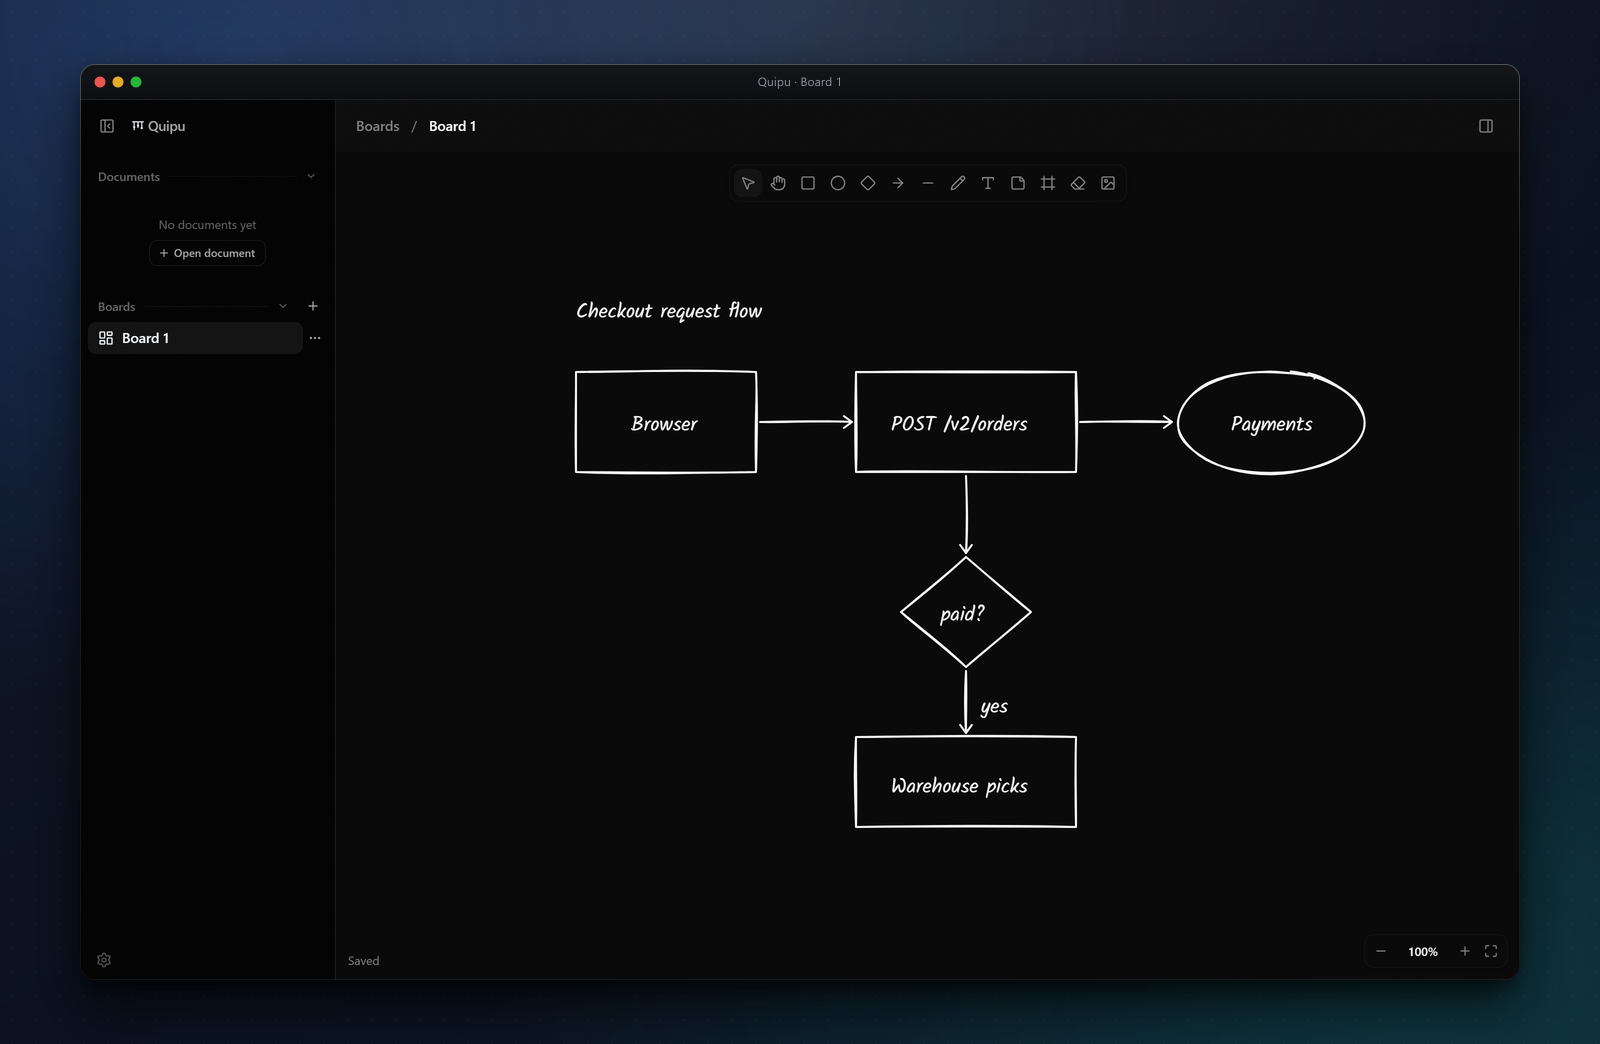
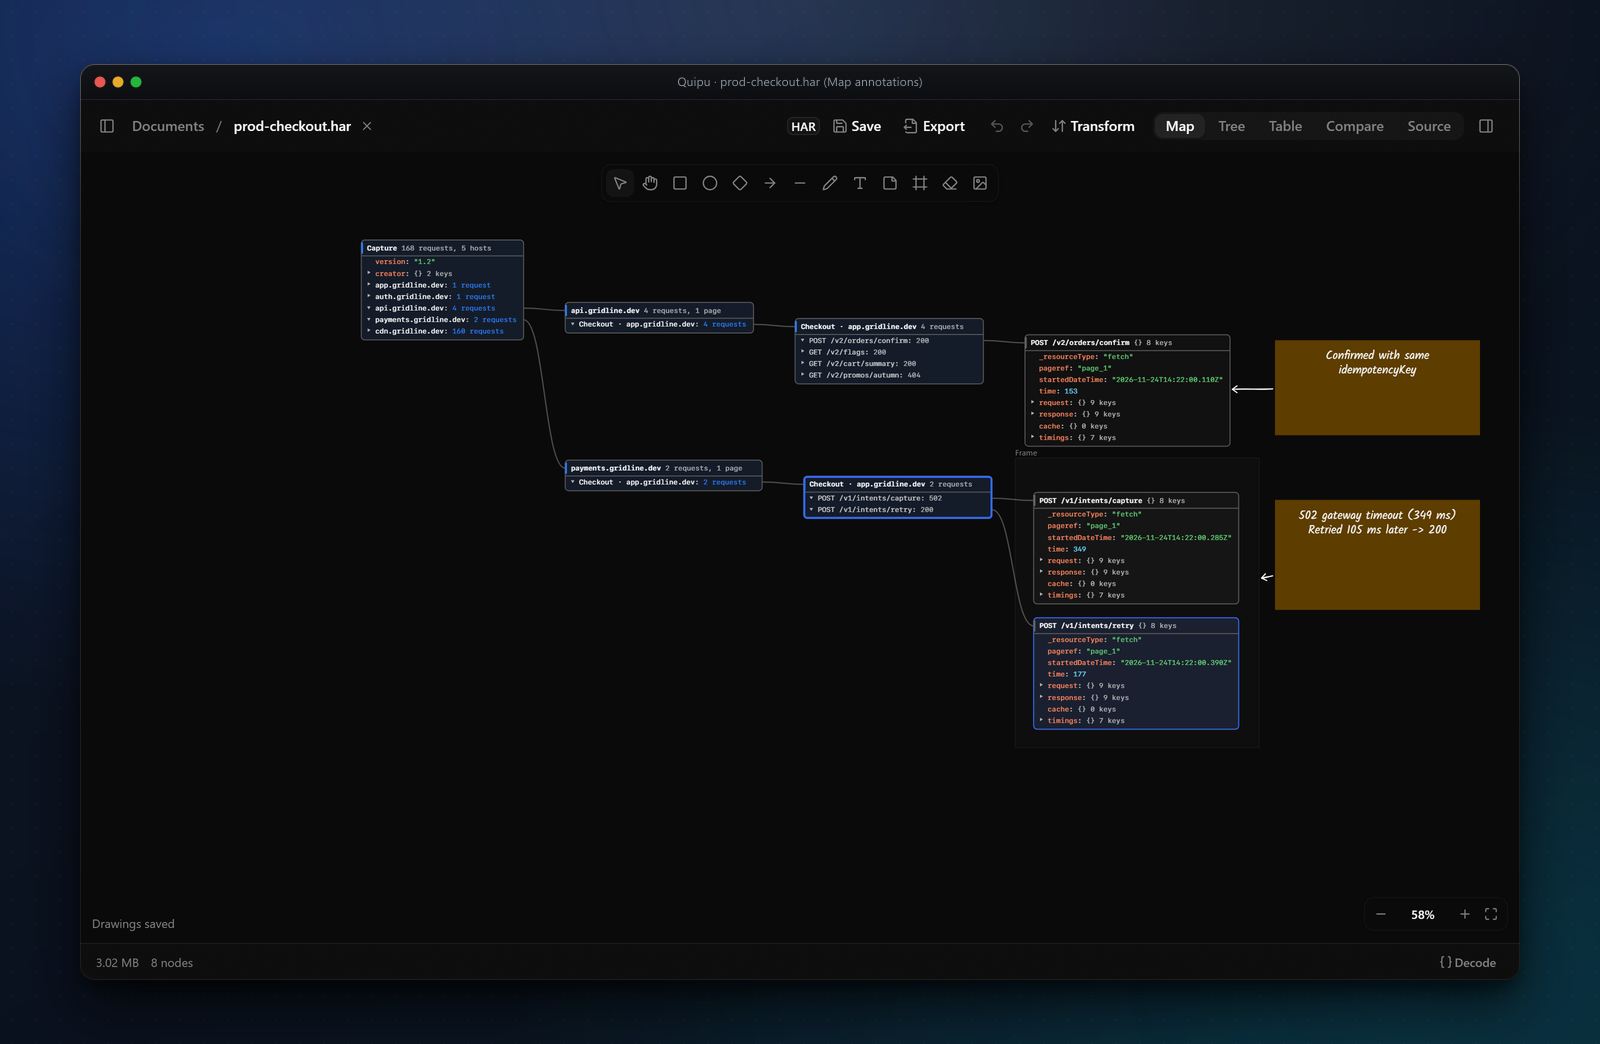
docs: replace standalone board shot with annotated HAR map screenshot

diff --git a/README.md b/README.md
@@ -38,7 +38,7 @@ Compare matches requests across two HAR captures by method, URL, and resource ty
 
 You can sketch request flows on standalone boards or draw shapes, notes, and node-bound arrows directly over a map, then export the map to PNG or SVG up to 8192 px. Quipu ships with Graphite, six named palettes, a 7:1 High Contrast theme, an OKLCH theme editor, and VS Code theme import.
 
-![Standalone diagram board in Quipu](docs/images/board.png)
+![Map annotations with sticky notes, frame, and arrows bound to HAR request cards](docs/images/board.png)
 
 ## How it works
 
